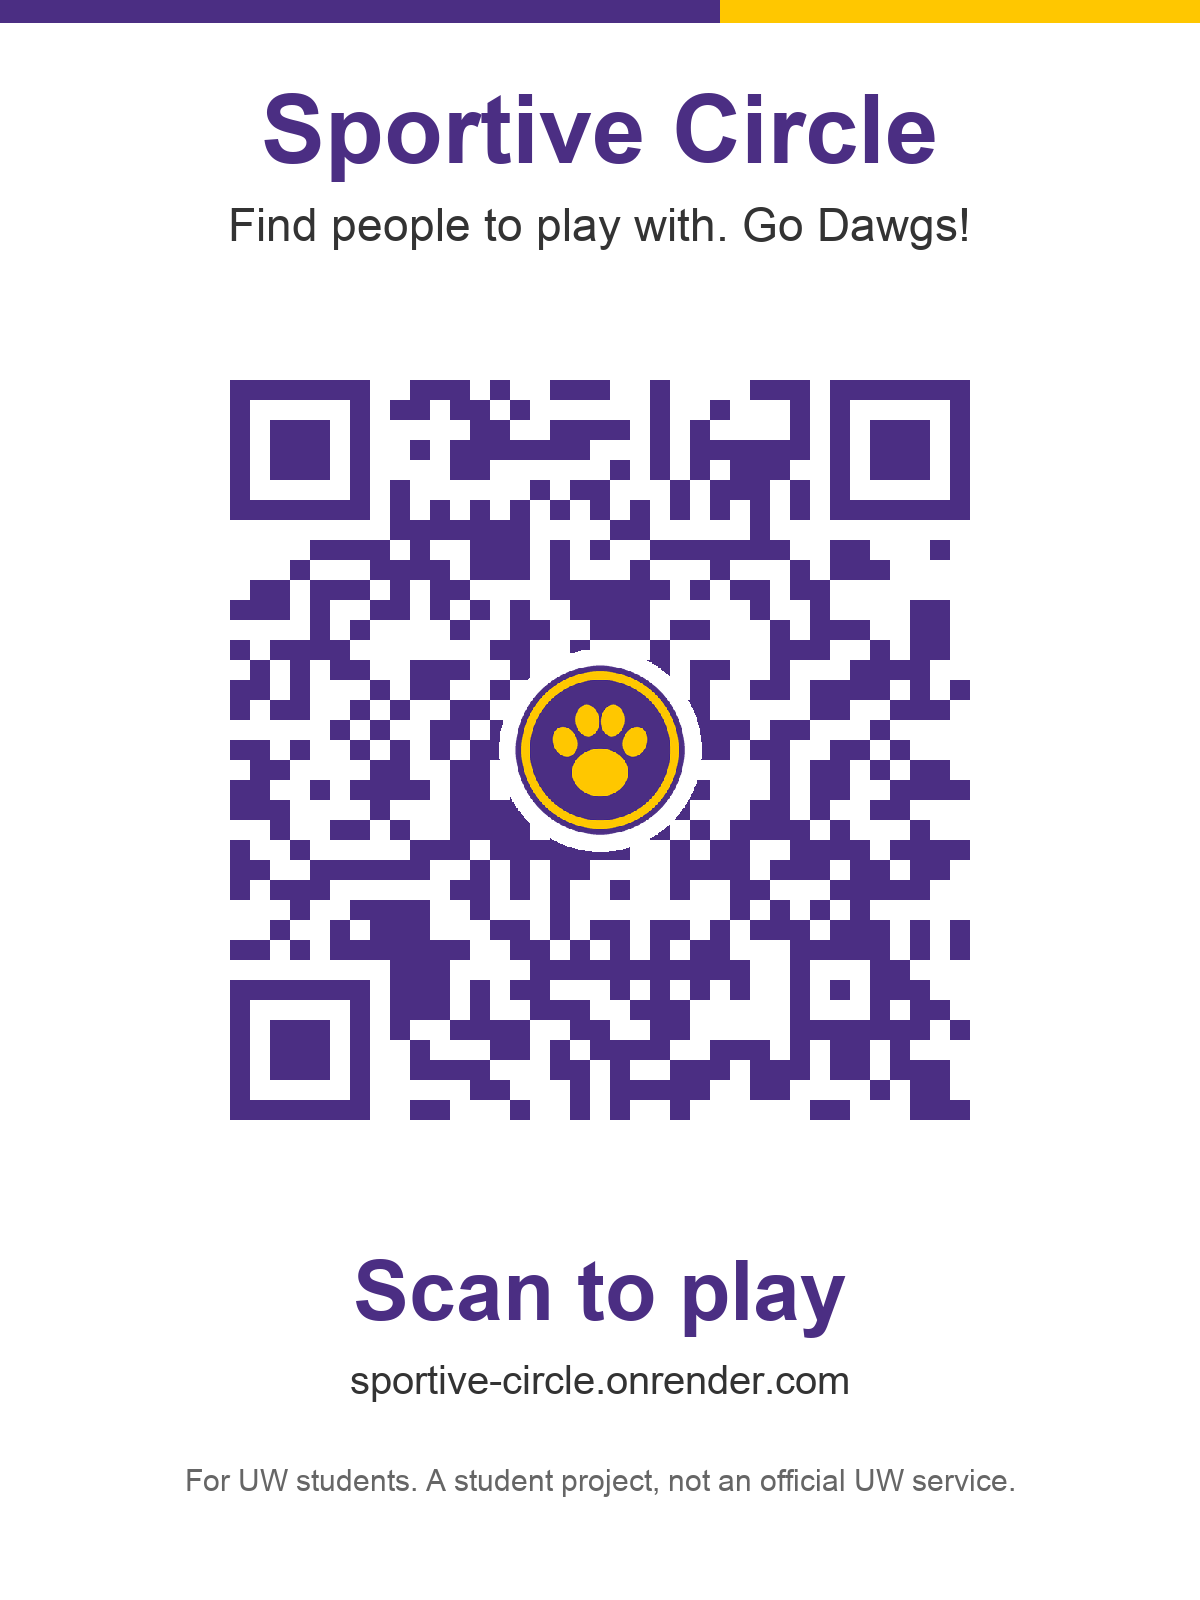
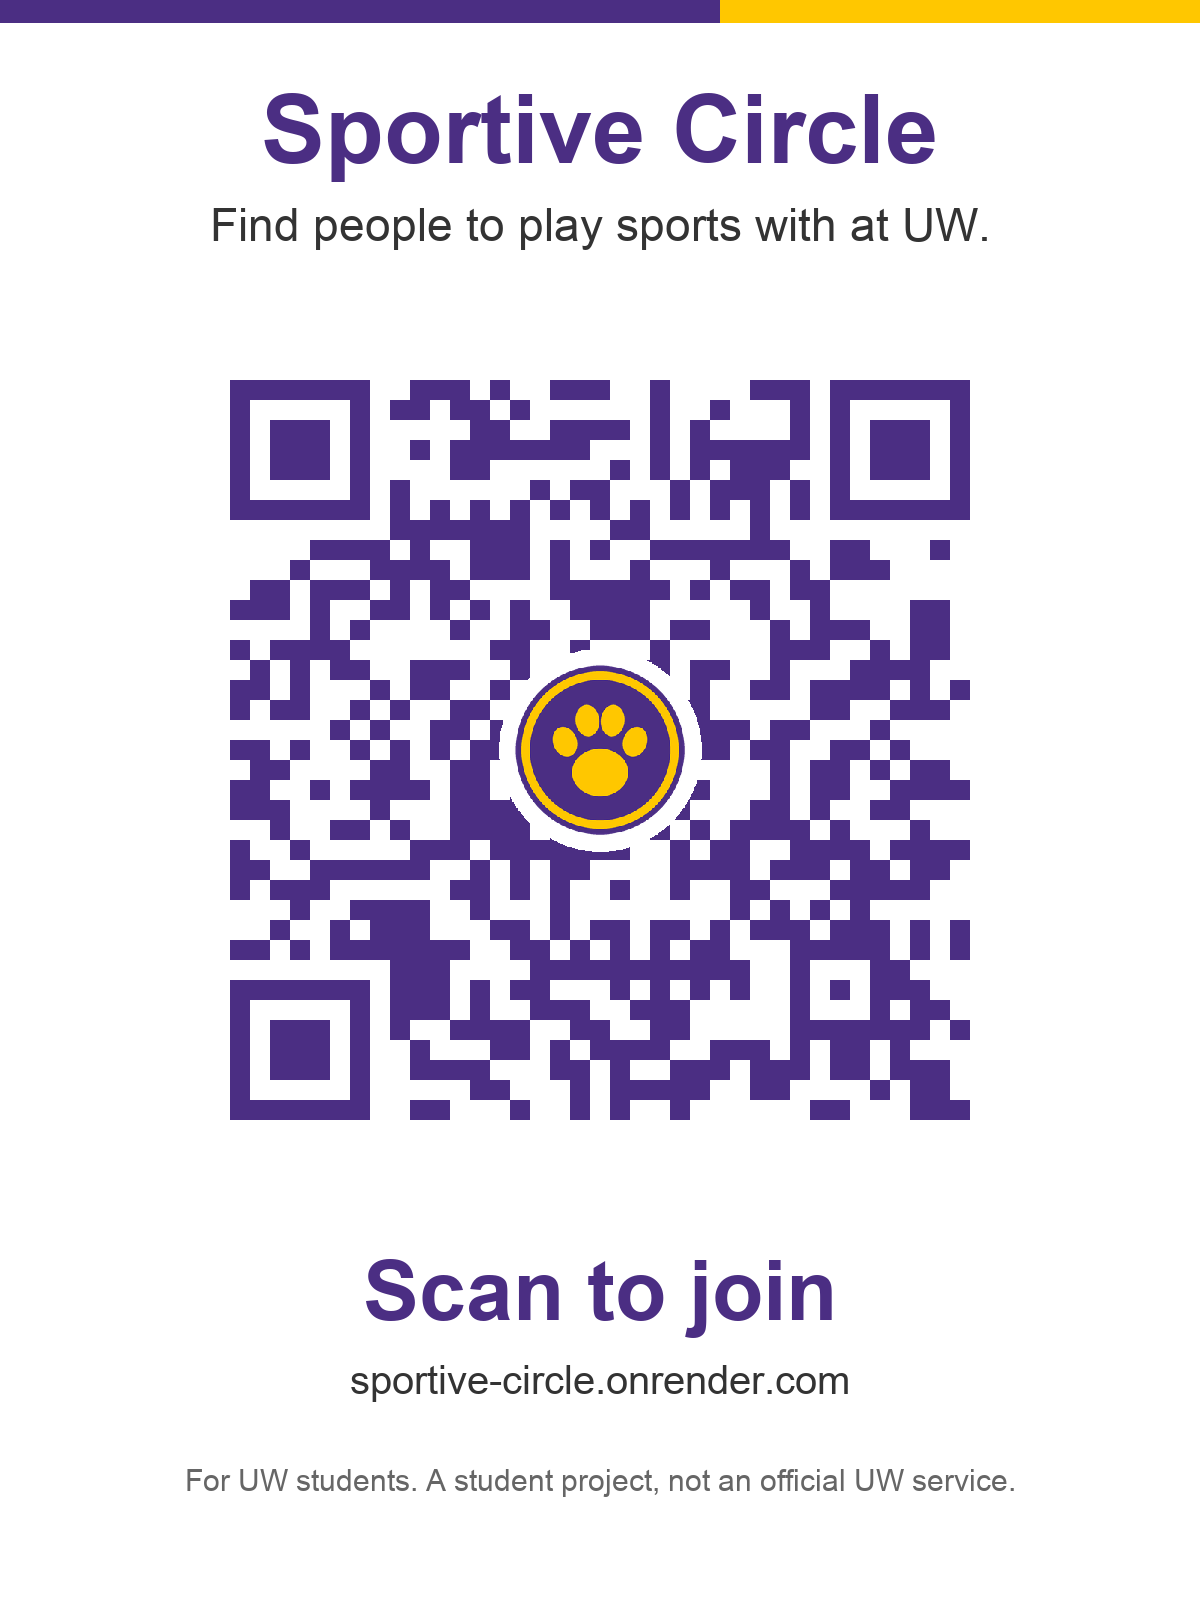
QR flyer says "Scan to join" and "Find people to play sports with at UW."

Changed region(s): [[0.2775, 0.7812, 0.7092, 0.8438], [0.1542, 0.125, 0.7092, 0.1562], [0.74, 0.125, 0.8325, 0.1562]]

diff --git a/tools/make_qr.py b/tools/make_qr.py
@@ -6,7 +6,7 @@
 Makes:
   marketing/qr-code.png        just the code (1200 x 1200), purple on white, gold paw in the middle
   marketing/qr-code.svg        the same code as a vector, for printing at any size
-  marketing/qr-flyer.png       the code with a "Scan to play" caption, ready to print or post
+  marketing/qr-flyer.png       the code with a "Scan to join" caption, ready to print or post
 
 If the site's address ever changes (e.g. a custom domain), run this again and replace printed flyers.
 """
@@ -75,9 +75,9 @@ def flyer(code):
     draw.rectangle([0, 0, width, 22], fill=PURPLE)
     draw.rectangle([int(width * .6), 0, width, 22], fill=GOLD)
     draw.text((width / 2, 130), "Sportive Circle", font=font(96), fill=PURPLE, anchor="mm")
-    draw.text((width / 2, 225), "Find people to play with. Go Dawgs!", font=font(46, bold=False), fill="#333333", anchor="mm")
+    draw.text((width / 2, 225), "Find people to play sports with at UW.", font=font(46, bold=False), fill="#333333", anchor="mm")
     image.paste(code.resize((900, 900), Image.NEAREST), (150, 300))
-    draw.text((width / 2, 1290), "Scan to play", font=font(84), fill=PURPLE, anchor="mm")
+    draw.text((width / 2, 1290), "Scan to join", font=font(84), fill=PURPLE, anchor="mm")
     draw.text((width / 2, 1380), URL.replace("https://", ""), font=font(40, bold=False), fill="#333333", anchor="mm")
     draw.text((width / 2, 1480), "For UW students. A student project, not an official UW service.",
               font=font(30, bold=False), fill="#666666", anchor="mm")
